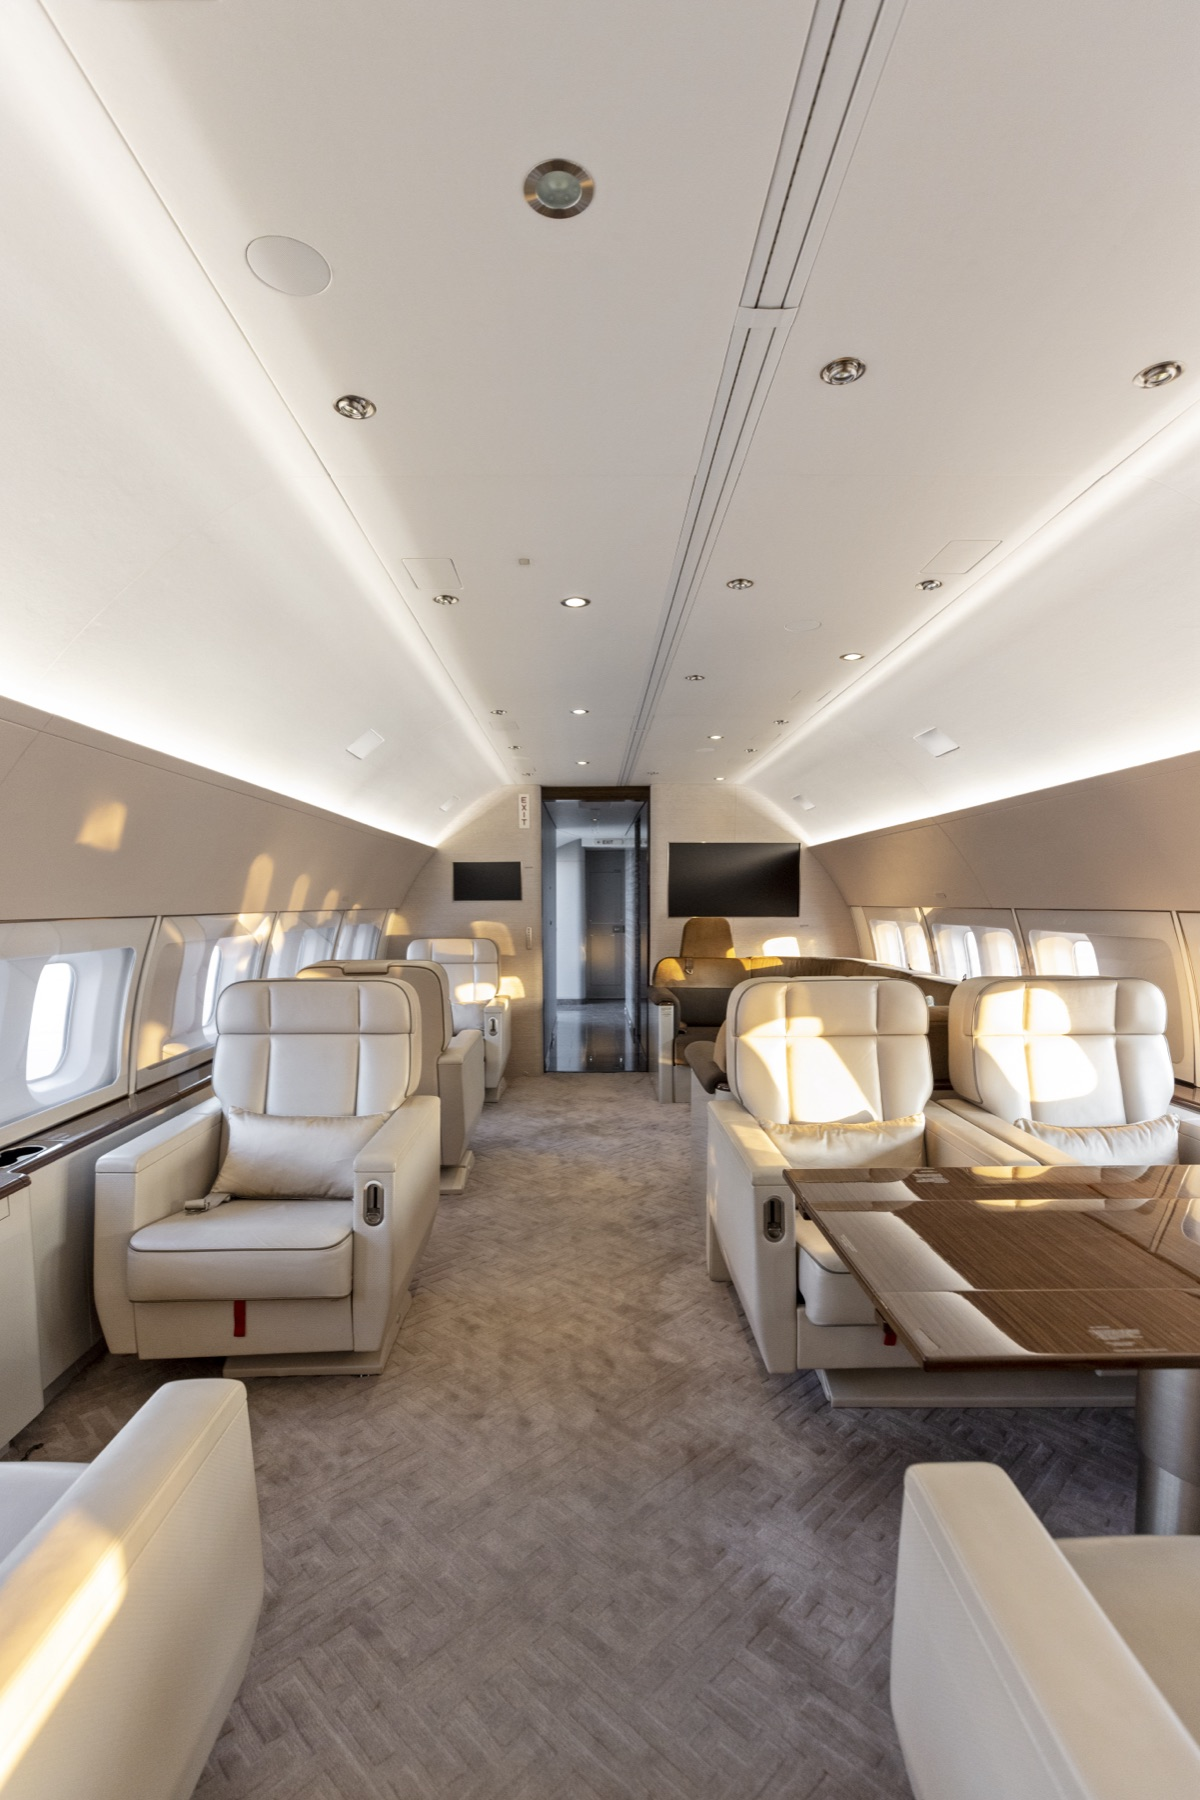
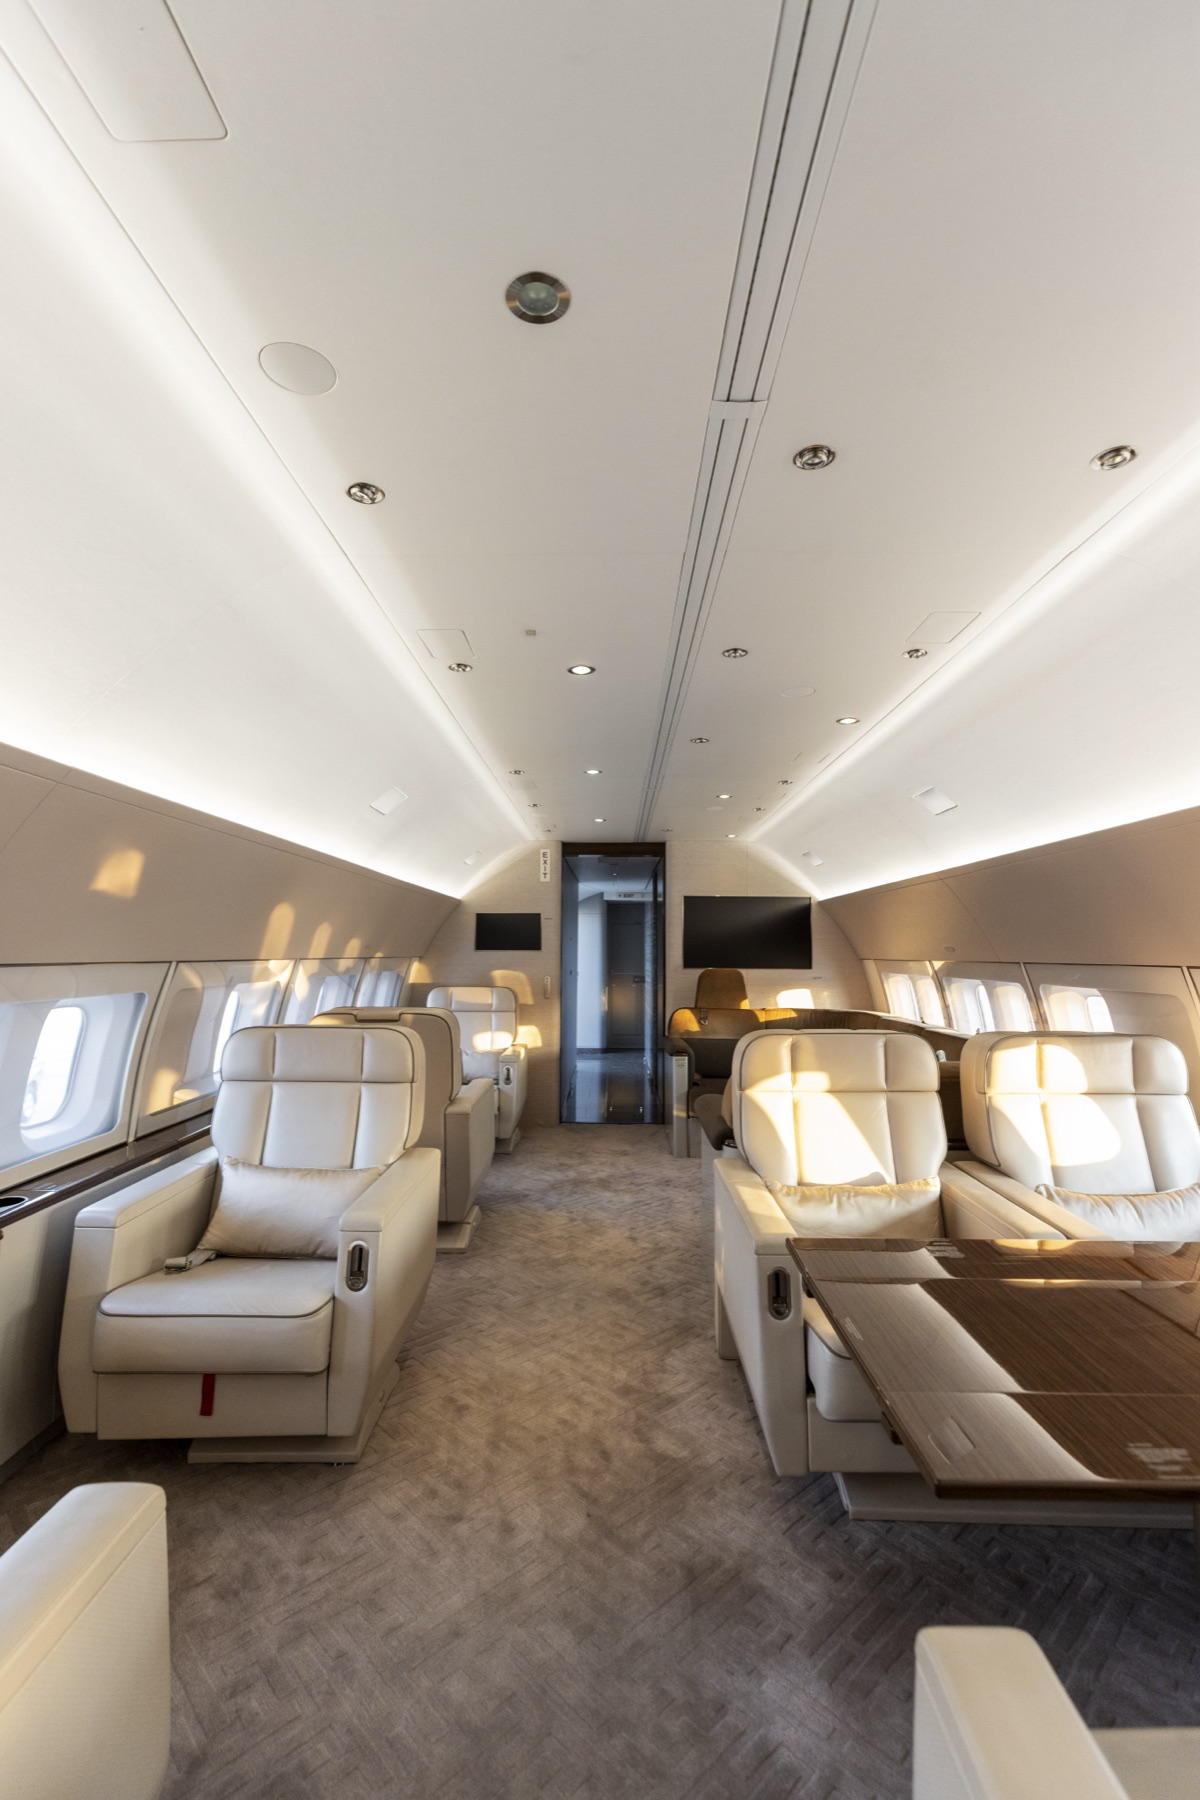
BBJ: swap feed to Billy's 6 curated portrait stills

diff --git a/lib/work.ts b/lib/work.ts
@@ -1214,19 +1214,37 @@ export const workCollections: WorkCollection[] = [
     verticalImages: [
       {
         src: "/images/work/boeing-bbj/boeing-bbj-v01.jpg",
-        alt: "Boeing Business Jet nose head-on, vertical",
+        alt: "Boeing Business Jet private stateroom, vertical",
         width: 1200,
         height: 1800,
       },
       {
         src: "/images/work/boeing-bbj/boeing-bbj-v02.jpg",
-        alt: "Boeing Business Jet winglet against the sky, vertical",
+        alt: "Boeing Business Jet lounge with a large screen, vertical",
         width: 1200,
         height: 1800,
       },
       {
         src: "/images/work/boeing-bbj/boeing-bbj-v03.jpg",
-        alt: "Boeing Business Jet lounge, vertical",
+        alt: "Boeing Business Jet club seats in golden light, vertical",
+        width: 1200,
+        height: 1800,
+      },
+      {
+        src: "/images/work/boeing-bbj/boeing-bbj-v04.jpg",
+        alt: "Boeing Business Jet main cabin looking aft, vertical",
+        width: 1200,
+        height: 1800,
+      },
+      {
+        src: "/images/work/boeing-bbj/boeing-bbj-v05.jpg",
+        alt: "Boeing Business Jet tail and winglet against a clear sky, vertical",
+        width: 1200,
+        height: 1800,
+      },
+      {
+        src: "/images/work/boeing-bbj/boeing-bbj-v06.jpg",
+        alt: "Boeing Business Jet winglet and engine, vertical",
         width: 1200,
         height: 1800,
       },
